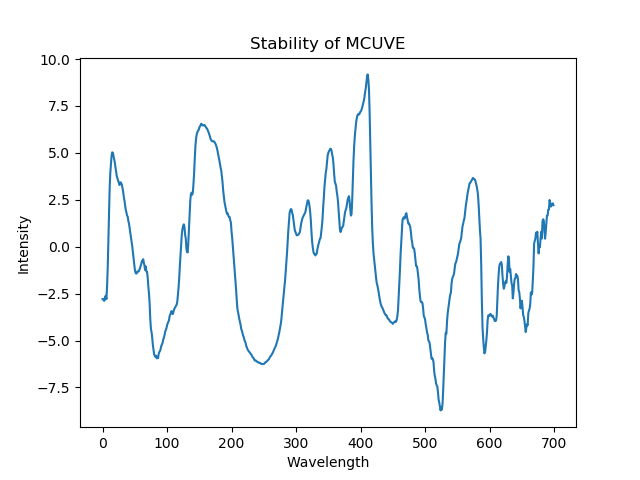
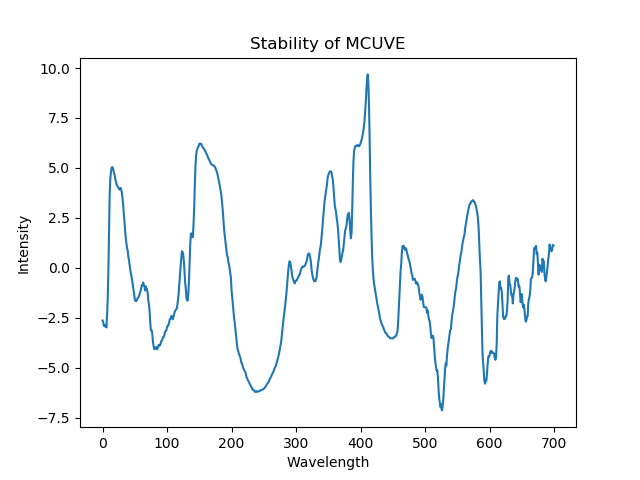
Add VC

diff --git a/calib/FeatureSelection.py b/calib/FeatureSelection.py
@@ -1,11 +1,13 @@
 import numpy as np
 from sklearn.cross_decomposition import PLSRegression
-from sklearn.linear_model import  LinearRegression
+from sklearn.linear_model import LinearRegression
 from sklearn.model_selection import ShuffleSplit
 from sklearn.model_selection import cross_val_score
+from sklearn.model_selection import cross_val_predict
+from sklearn.utils import shuffle
+from sklearn.metrics import mean_squared_error
 
-
-class MCuve:
+class MCUVE:
     def __init__(self, x, y, ncomp=1, nrep=500, testSize=0.2):
         self.x = x
         self.y = y
@@ -56,7 +58,7 @@ class MCuve:
         return tuple(returnx)
 
 
-class RT(MCuve):
+class RT(MCUVE):
     def calcCriteria(self):
         # calculate normal pls regression coefficient
         plsmodel0=PLSRegression(self.ncomp)
@@ -86,6 +88,27 @@ class RT(MCuve):
             xi = self.x[:, self.featureIndex[:i+1]]
             cvScore = cross_val_score(regModel, xi, self.y, cv=cv)
             self.featureR2[i] = np.mean(cvScore)
+
+class VC(RT):
+    def calcCriteria(self, cv=3):
+        # calculate normal pls regression coefficient
+        nVar = self.x.shape[1]
+        sampleMatrix = np.ndarray([self.nrep,self.x.shape[1]], dtype=int)
+        sampleMatrix[:, :] = 0
+        errVector = np.ndarray([self.nrep,1])
+        nSample = max([self.ncomp, self.x.shape[0]//2, nVar//10])
+        sampleidx = range(self.x.shape[1])
+        for i in range(self.nrep):
+            sampleidx = shuffle(sampleidx)
+            seli =sampleidx[:nSample]
+            plsModel = PLSRegression(n_components=self.ncomp)
+            plsModel.fit(self.x[:, seli], self.y)
+            sampleMatrix[i, seli] = 1
+            yhati=cross_val_predict(plsModel, self.x[:, seli], self.y, cv=cv)
+            errVector[i] = np.sqrt(mean_squared_error(yhati, self.y))
+        plsModel = PLSRegression(n_components=self.ncomp)
+        plsModel.fit(sampleMatrix, errVector)
+        self.criteria = plsModel.coef_.ravel()
 
 
 if __name__ == "__main__":

diff --git a/FeatureSelectionDemo_mcuve.py b/FeatureSelectionDemo_mcuve.py
@@ -6,16 +6,16 @@
 
 import matplotlib.pyplot as plt
 import numpy as np
-import scipy.io as scio
+import scipy.io as sio
 from sklearn.cross_decomposition import PLSRegression
 from sklearn.model_selection import train_test_split
 
-from calib.pls import MCuve
+from calib.FeatureSelection import MCUVE
 
 if __name__ == "__main__":
     ncomp = 7
     MatPath = './data/corn.mat'
-    CornData = scio.loadmat(MatPath)
+    CornData = sio.loadmat(MatPath)
     wv = np.linspace(1100, 2498, (2498 - 1100) // 2 + 1, endpoint=True)
     X = CornData["X"]
     Y = CornData["Y"]
@@ -37,14 +37,14 @@ if __name__ == "__main__":
     plt.plot([Ytrain.min(), Ytrain.max()], [Ytrain.min(), Ytrain.max()], 'k--', lw=4)
     plt.scatter(Ytrain, Ytrain_hat, marker='*')
     plt.scatter(Ytest, Ytest_hat, marker='*')
-    plt.xlabel("Reference")
-    plt.ylabel("Prediction")
+    plt.xlabel("Prediction")
+    plt.ylabel("Reference")
     plt.title("Prediction of normal pls model")
     plt.savefig("./Image/Image2_PredictionPLS.png")
     plt.close()
 
     # Stability of MC-UVE
-    mcModel = MCuve(Xtrain, Ytrain, ncomp)
+    mcModel = MCUVE(Xtrain, Ytrain, ncomp)
     mcModel.calcCriteria()
     plt.plot(mcModel.criteria)
     plt.xlabel("Wavelength")
@@ -71,8 +71,8 @@ if __name__ == "__main__":
     plt.plot([Ytrain.min(), Ytrain.max()], [Ytrain.min(), Ytrain.max()], 'k--', lw=4)
     plt.scatter(Ytrain, YtrainNew_hat, marker='*')
     plt.scatter(Ytest, YtestNew_hat, marker='*')
-    plt.xlabel("Reference")
-    plt.ylabel("Prediction")
+    plt.xlabel("Prediction")
+    plt.ylabel("Reference")
     plt.title("Prediction after MC-UVE")
     plt.savefig("./Image/Image5_Prediction_MC_UVE.png")
     plt.close()

diff --git a/FeatureSelectionDemo_VC.py b/FeatureSelectionDemo_VC.py
@@ -10,7 +10,7 @@ import scipy.io as scio
 from sklearn.cross_decomposition import PLSRegression
 from sklearn.model_selection import train_test_split
 
-from calib.FeatureSelection import RT
+from calib.FeatureSelection import VC
 
 if __name__ == "__main__":
     ncomp = 7
@@ -44,13 +44,13 @@ if __name__ == "__main__":
     plt.close()
 
     # P value of RT
-    rtModel = RT(Xtrain, Ytrain, ncomp)
+    rtModel = VC(Xtrain, Ytrain, ncomp, nrep=7000)
     rtModel.calcCriteria()
     plt.plot(rtModel.criteria)
     plt.xlabel("Wavelength")
     plt.ylabel("Intensity")
-    plt.title("P value of RT")
-    plt.savefig("./Image/Image3_P_vale.png")
+    plt.title("C value of RT")
+    plt.savefig("./Image/Image3_C_vale.png")
     plt.close()
 
     # Feature ranking efficienty by stability of RT
@@ -73,6 +73,6 @@ if __name__ == "__main__":
     plt.scatter(Ytest, YtestNew_hat, marker='*')
     plt.xlabel("Prediction")
     plt.ylabel("Reference")
-    plt.title("Prediction after RT")
-    plt.savefig("./Image/Image5_Prediction_RT.png")
+    plt.title("Prediction after VC")
+    plt.savefig("./Image/Image5_Prediction_VC.png")
     plt.close()

diff --git a/README.MD b/README.MD
@@ -11,16 +11,18 @@ pip install -r requirements.txt
 ```
 
 ## Demon
-Feature selection demostration of corn sample near infrared (NIR) spectra by (MC-UVE) and randomization test(RT). 
+Feature selection demostration of corn sample near infrared (NIR) spectra by **Monte Carlo-uninformative variable elimination (MC-UVE)** and **randomization test(RT)**. 
 ```python
 python FeatureSelectionDemo_mcuve.py
 python FeatureSelectionDemo_RT.py
 ```
 
 ##Ref
-1. Cai, W. S.;  Li, Y. K.; Shao, X. G., A variable selection method based on uninformative variable elimination for multivariate calibration of near-infrared spectra. Chemom. Intell. Lab. Syst. 2008, 90 (2), 188-194.
-2. Xu, H.;  Liu, Z. C.;  Cai, W. S.; Shao, X. G., A wavelength selection method based on randomization test for near-infrared spectral analysis. Chemom. Intell. Lab. Syst. 2009, 97 (2), 189-193.
-[3. Zhang, J.;  Cui, X. Y.;  Cai, W. S.; Shao, X. G., A variable importance criterion for variable selection in near-infrared spectral analysis. Sci. China Chem. 2018, 62, 271–279.](https://link.springer.com/article/10.1007%2Fs11426-018-9368-9)
+_1. Cai, W. S.;  Li, Y. K.; Shao, X. G., A variable selection method based on uninformative variable elimination for multivariate calibration of near-infrared spectra. Chemom. Intell. Lab. Syst. 2008, 90 (2), 188-194._
+
+_2. Xu, H.;  Liu, Z. C.;  Cai, W. S.; Shao, X. G., A wavelength selection method based on randomization test for near-infrared spectral analysis. Chemom. Intell. Lab. Syst. 2009, 97 (2), 189-193._
+
+[_3. Zhang, J.;  Cui, X. Y.;  Cai, W. S.; Shao, X. G., A variable importance criterion for variable selection in near-infrared spectral analysis. Sci. China Chem. 2018, 62, 271–279._](https://link.springer.com/article/10.1007%2Fs11426-018-9368-9)
 
 ## Contributing
 Pull requests are welcome. For major changes, please open an issue first to discuss what you would like to change.
